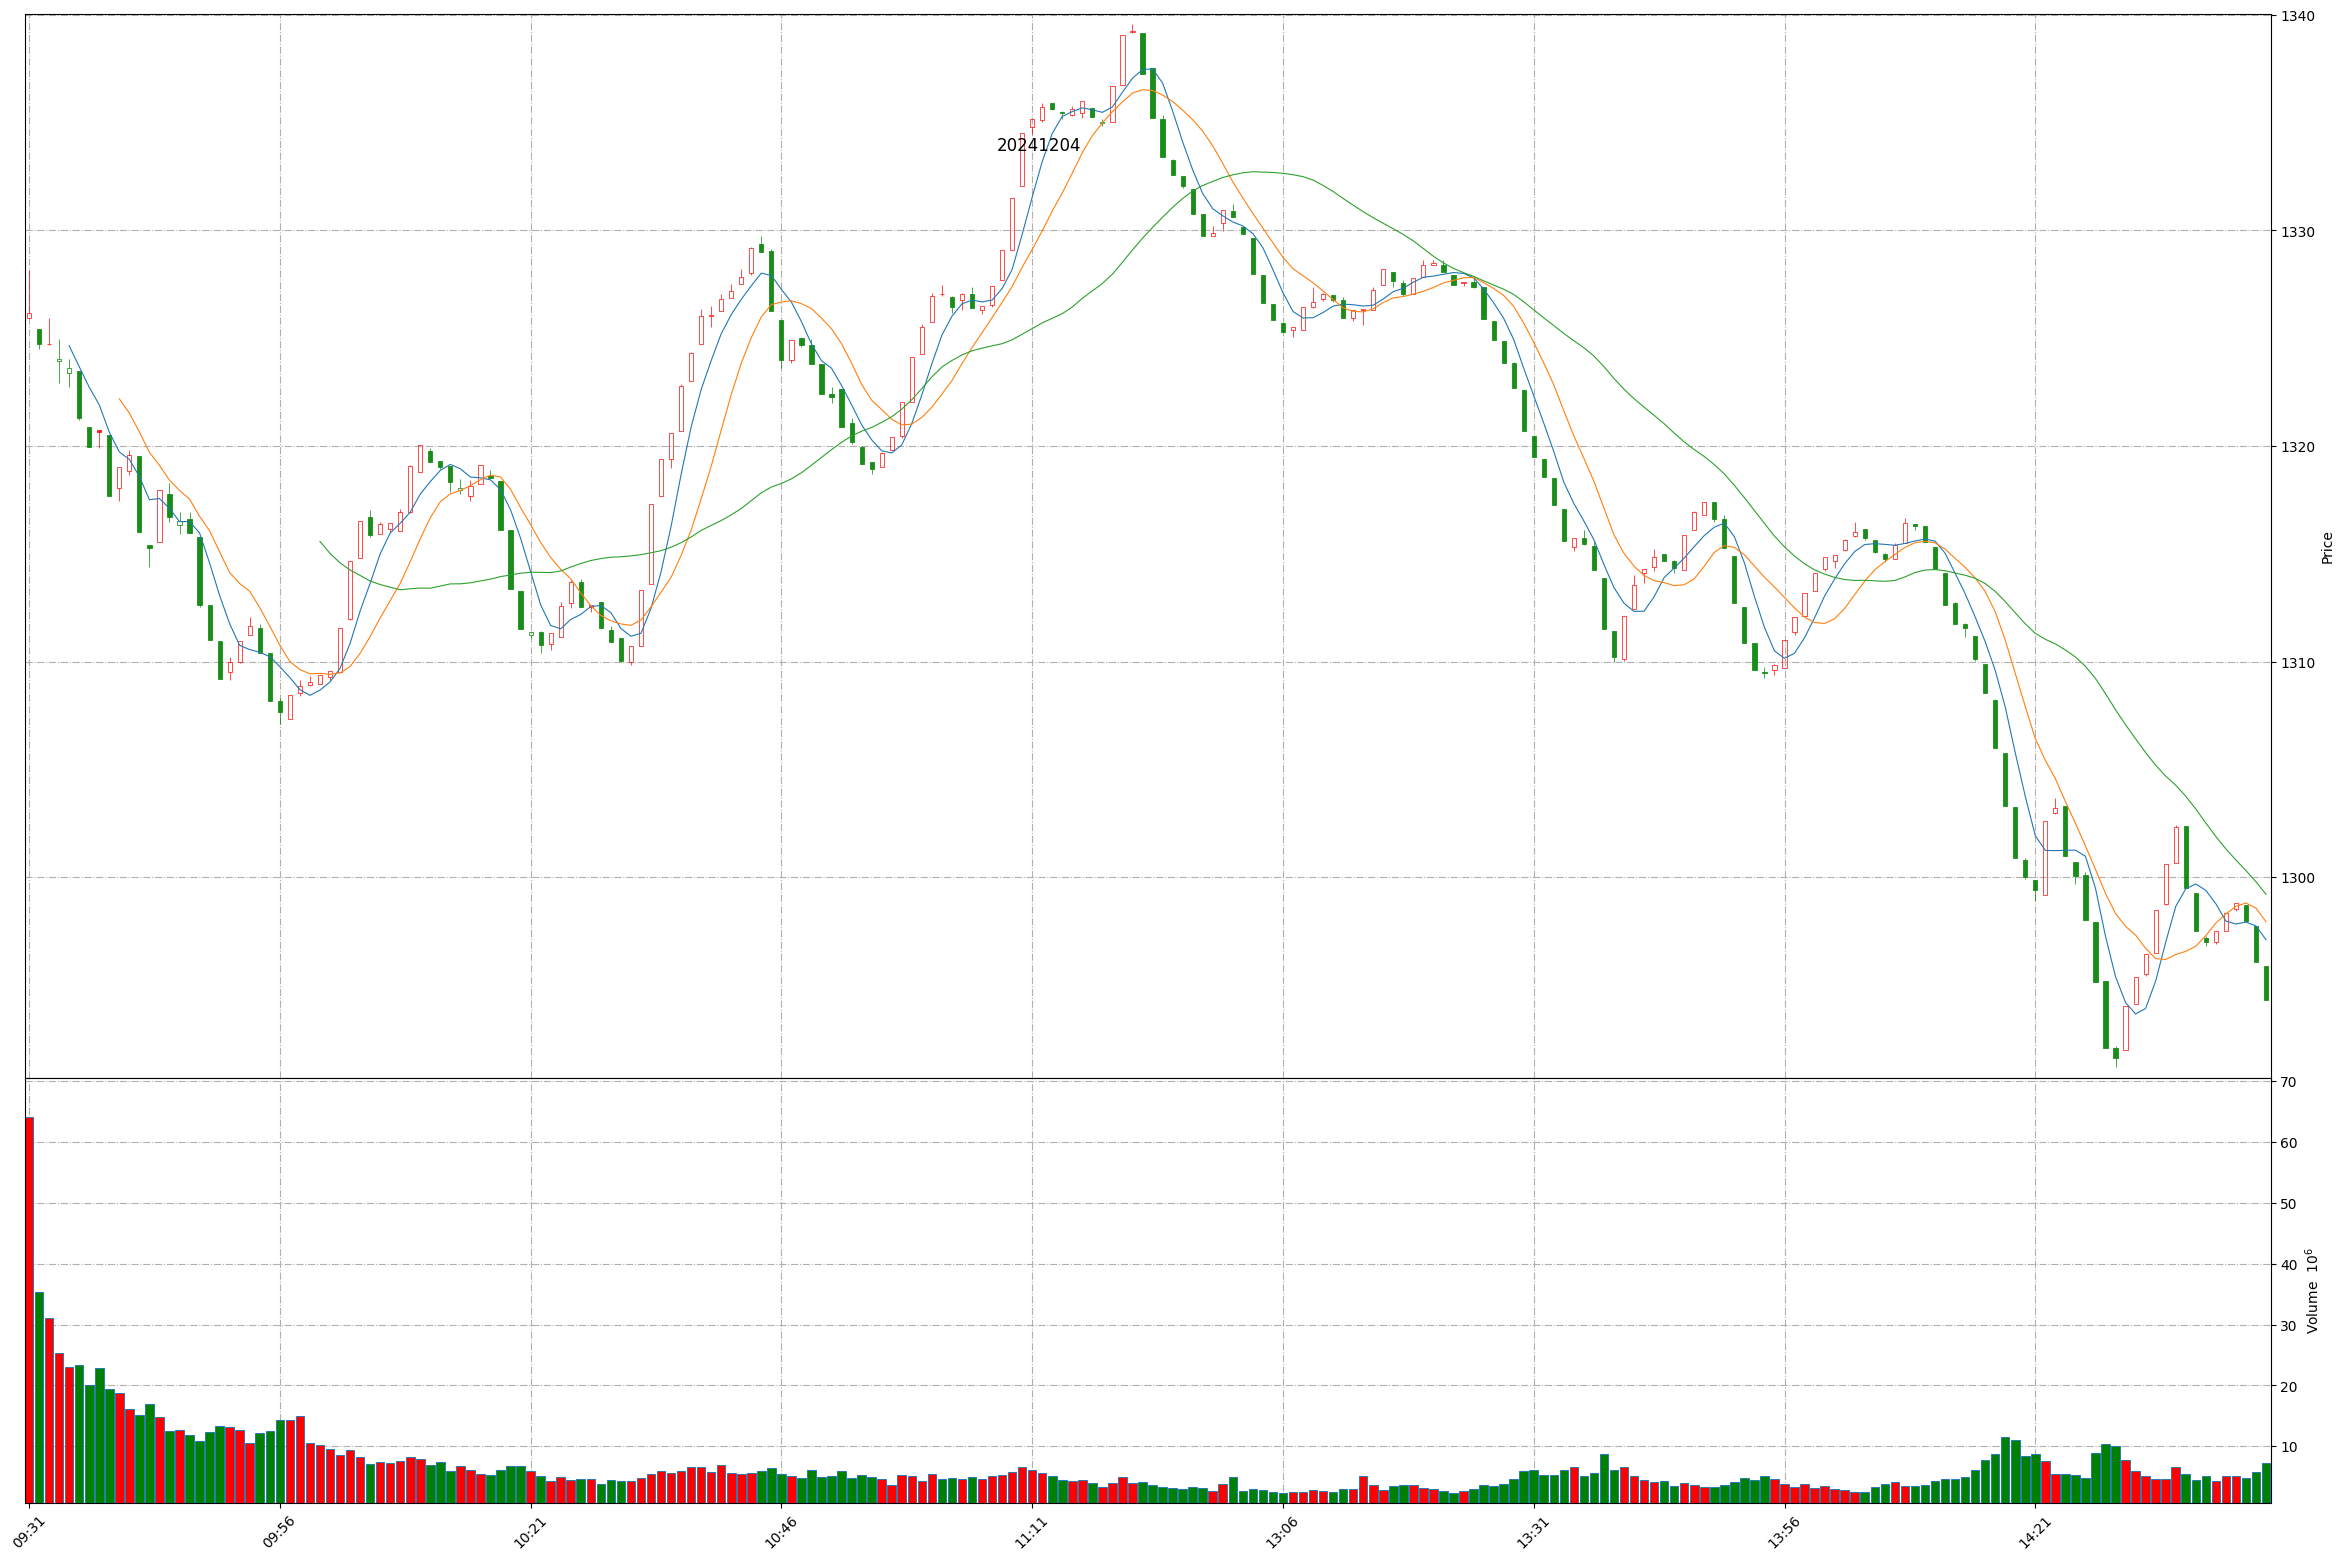
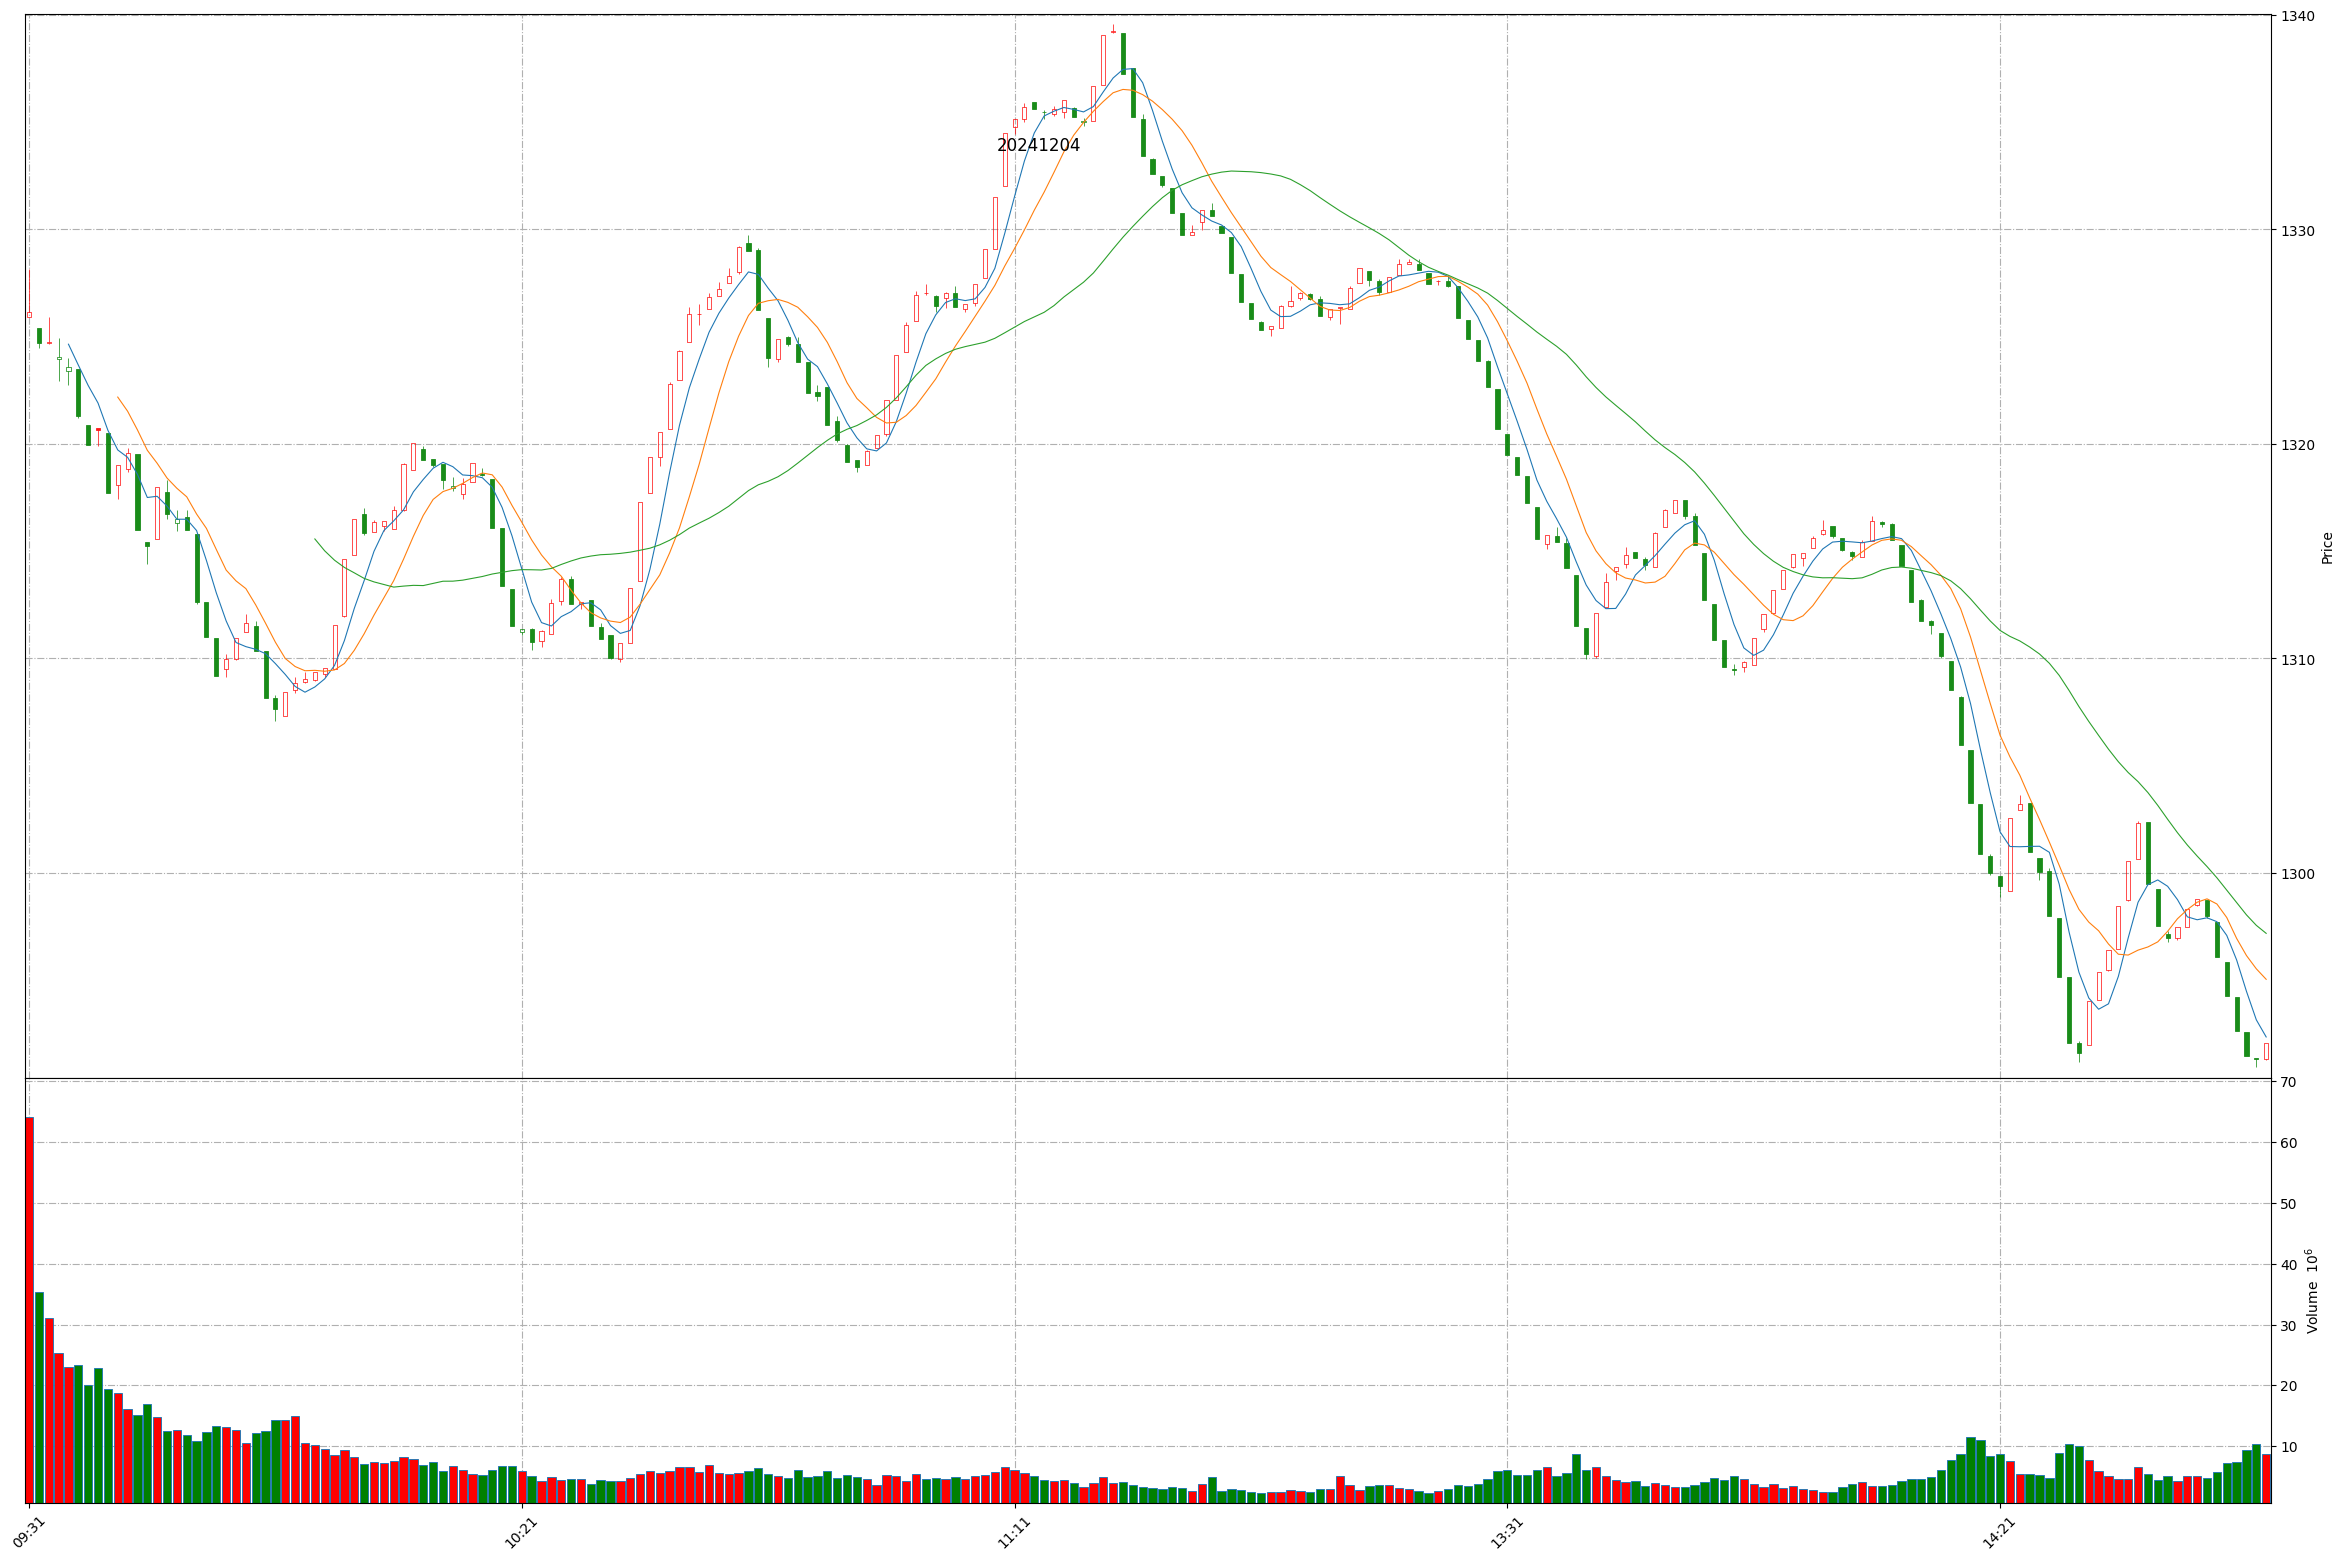
Github action update at 2024-12-04 14:48:21.

diff --git a/README.md b/README.md
@@ -1,11 +1,11 @@
 
 # Daily-A-share-market-quotes 每日 A 股指数（5min 更新）- 20241204
 
-### 上证指数 20241204 14:44
+### 上证指数 20241204 14:48
 ![](./fig/2024/12/20241204-sh000001.png)
 
-### 深证成指 20241204 14:44
+### 深证成指 20241204 14:48
 ![](./fig/2024/12/20241204-sz399001.png)
 
-### 北证50 20241204 14:44
+### 北证50 20241204 14:48
 ![](./fig/2024/12/20241204-bj899050.png)
